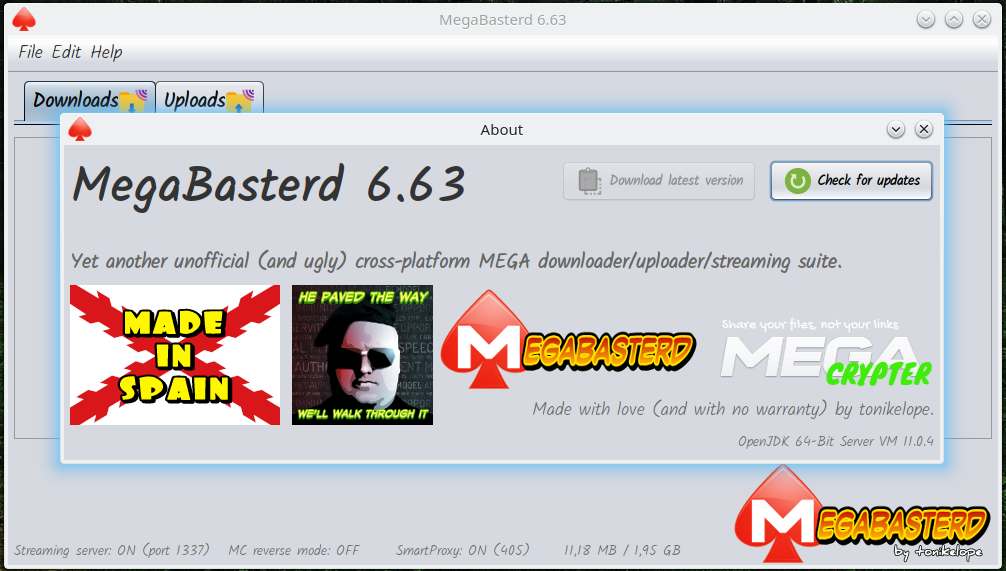
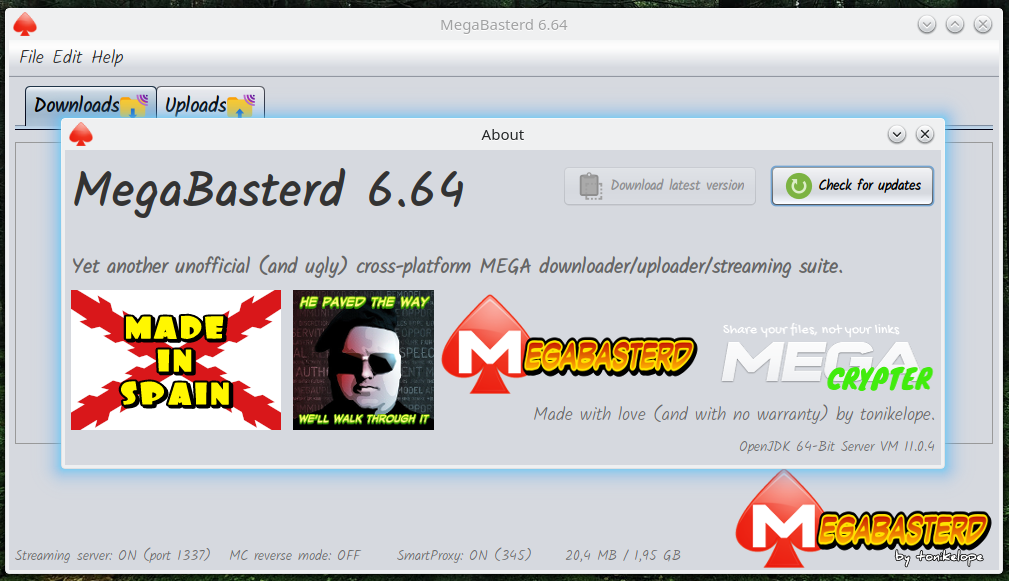
6.64
-readtimeout default value

(cherry picked from commit bf79f7d3ba0bddfc351df97263d52f509c0d86a6)

diff --git a/src/main/java/com/tonikelope/megabasterd/CryptTools.java b/src/main/java/com/tonikelope/megabasterd/CryptTools.java
@@ -356,8 +356,6 @@ public class CryptTools {
 
                 con.setConnectTimeout(Upload.HTTP_TIMEOUT);
 
-                con.setReadTimeout(Upload.HTTP_TIMEOUT);
-
                 con.setRequestProperty("User-Agent", MainPanel.DEFAULT_USER_AGENT);
 
                 HashMap<String, String> elc_account_data;
@@ -532,8 +530,6 @@ public class CryptTools {
             con.setUseCaches(false);
 
             con.setConnectTimeout(Upload.HTTP_TIMEOUT);
-
-            con.setReadTimeout(Upload.HTTP_TIMEOUT);
 
             con.setRequestProperty("User-Agent", "Mozilla/5.0 (X11; U; Linux amd64; rv:44.0) Gecko/20100101 Firefox/44.0");
 

diff --git a/src/main/java/com/tonikelope/megabasterd/ChunkDownloader.java b/src/main/java/com/tonikelope/megabasterd/ChunkDownloader.java
@@ -220,10 +220,8 @@ public class ChunkDownloader implements Runnable, SecureSingleThreadNotifiable {
 
                 if (_current_smart_proxy != null) {
                     con.setConnectTimeout(Download.HTTP_PROXY_TIMEOUT);
-                    con.setReadTimeout(Download.HTTP_PROXY_TIMEOUT);
                 } else {
                     con.setConnectTimeout(Download.HTTP_TIMEOUT);
-                    con.setReadTimeout(Download.HTTP_TIMEOUT);
                 }
 
                 con.setUseCaches(false);

diff --git a/src/main/java/com/tonikelope/megabasterd/ChunkDownloaderMono.java b/src/main/java/com/tonikelope/megabasterd/ChunkDownloaderMono.java
@@ -83,8 +83,6 @@ public class ChunkDownloaderMono extends ChunkDownloader {
 
                         con.setConnectTimeout(Download.HTTP_TIMEOUT);
 
-                        con.setReadTimeout(Download.HTTP_TIMEOUT);
-
                         con.setUseCaches(false);
 
                         con.setRequestProperty("User-Agent", MainPanel.DEFAULT_USER_AGENT);

diff --git a/src/main/java/com/tonikelope/megabasterd/MainPanel.java b/src/main/java/com/tonikelope/megabasterd/MainPanel.java
@@ -53,7 +53,7 @@ import javax.swing.UIManager;
  */
 public final class MainPanel {
 
-    public static final String VERSION = "6.63";
+    public static final String VERSION = "6.64";
     public static final int THROTTLE_SLICE_SIZE = 16 * 1024;
     public static final int DEFAULT_BYTE_BUFFER_SIZE = 16 * 1024;
     public static final int STREAMER_PORT = 1337;

diff --git a/src/main/java/com/tonikelope/megabasterd/StreamChunkDownloader.java b/src/main/java/com/tonikelope/megabasterd/StreamChunkDownloader.java
@@ -130,8 +130,6 @@ public class StreamChunkDownloader implements Runnable {
 
                     con.setConnectTimeout(Transference.HTTP_TIMEOUT);
 
-                    con.setReadTimeout(Transference.HTTP_TIMEOUT);
-
                     con.setUseCaches(false);
 
                     con.setRequestProperty("User-Agent", MainPanel.DEFAULT_USER_AGENT);

diff --git a/src/main/java/com/tonikelope/megabasterd/ChunkUploader.java b/src/main/java/com/tonikelope/megabasterd/ChunkUploader.java
@@ -160,8 +160,6 @@ public class ChunkUploader implements Runnable, SecureSingleThreadNotifiable {
 
                 con.setConnectTimeout(Upload.HTTP_TIMEOUT);
 
-                con.setReadTimeout(Upload.HTTP_TIMEOUT);
-
                 con.setRequestProperty("User-Agent", MainPanel.DEFAULT_USER_AGENT);
 
                 tot_bytes_up = 0;

diff --git a/src/main/java/com/tonikelope/megabasterd/MegaAPI.java b/src/main/java/com/tonikelope/megabasterd/MegaAPI.java
@@ -416,8 +416,6 @@ public class MegaAPI implements Serializable {
 
                 con.setConnectTimeout(Transference.HTTP_TIMEOUT);
 
-                con.setReadTimeout(Transference.HTTP_TIMEOUT);
-
                 con.setRequestProperty("User-Agent", MainPanel.DEFAULT_USER_AGENT);
 
                 con.setDoOutput(true);

diff --git a/src/main/java/com/tonikelope/megabasterd/SmartMegaProxyManager.java b/src/main/java/com/tonikelope/megabasterd/SmartMegaProxyManager.java
@@ -82,8 +82,6 @@ public final class SmartMegaProxyManager {
 
                 con.setConnectTimeout(Transference.HTTP_TIMEOUT);
 
-                con.setReadTimeout(Transference.HTTP_TIMEOUT);
-
                 con.setUseCaches(false);
 
                 con.setRequestProperty("User-Agent", MainPanel.DEFAULT_USER_AGENT);

diff --git a/src/main/java/com/tonikelope/megabasterd/MiscTools.java b/src/main/java/com/tonikelope/megabasterd/MiscTools.java
@@ -906,8 +906,6 @@ public class MiscTools {
 
                 con.setConnectTimeout(Transference.HTTP_TIMEOUT);
 
-                con.setReadTimeout(Transference.HTTP_TIMEOUT);
-
                 con.setUseCaches(false);
 
                 con.setRequestProperty("User-Agent", MainPanel.DEFAULT_USER_AGENT);

diff --git a/src/main/java/com/tonikelope/megabasterd/MegaCrypterAPI.java b/src/main/java/com/tonikelope/megabasterd/MegaCrypterAPI.java
@@ -57,8 +57,6 @@ public class MegaCrypterAPI {
 
             con.setConnectTimeout(Transference.HTTP_TIMEOUT);
 
-            con.setReadTimeout(Transference.HTTP_TIMEOUT);
-
             con.setUseCaches(false);
 
             con.setRequestProperty("User-Agent", MainPanel.DEFAULT_USER_AGENT);
